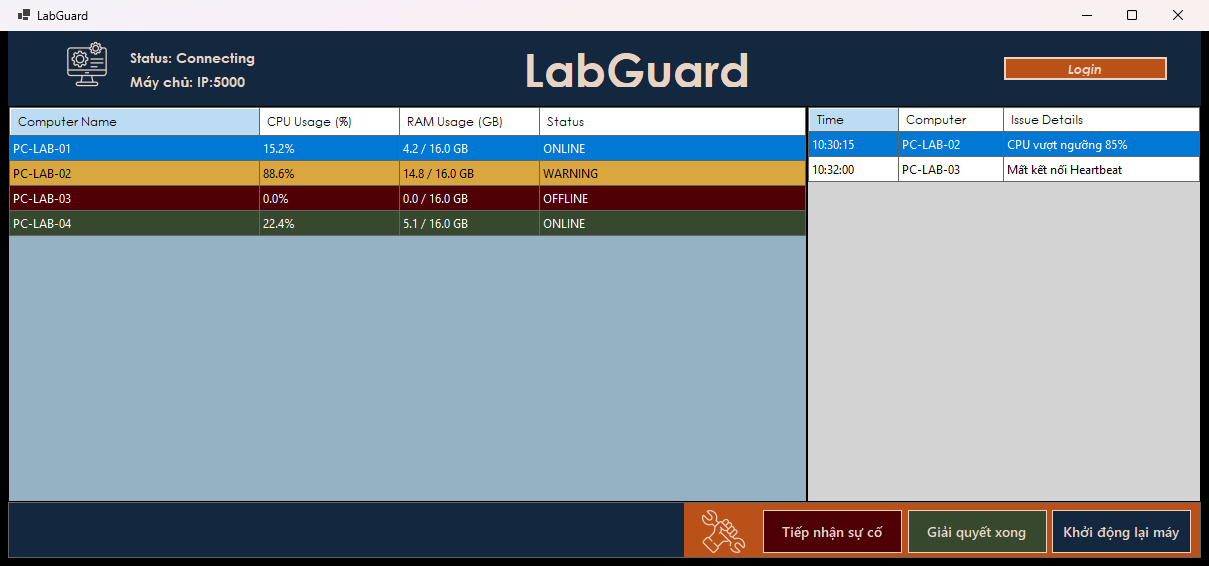
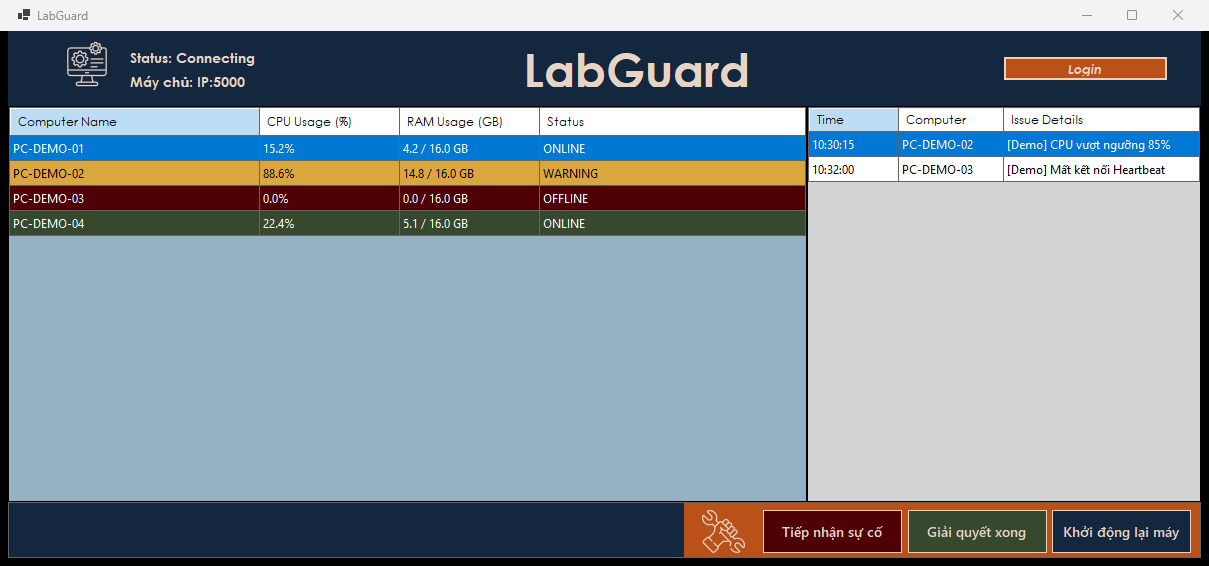
fix(admin): label sample rows as demo data and add ClearDemoData helper

diff --git a/src/LabGuard.Admin/DashboardForm.cs b/src/LabGuard.Admin/DashboardForm.cs
@@ -112,20 +112,29 @@ namespace LabGuard.Admin
 
         private void DashboardFromNew_Load(object sender, EventArgs e)
         {
-            // Dữ liệu mẫu kiểm thử hiển thị giao diện C-001
+            // Dữ liệu mẫu (Demo/Mock) minh họa hiển thị giao diện C-001 khi chưa kết nối Central
             if (dgvPhongMay.Rows.Count == 0)
             {
-                dgvPhongMay.Rows.Add("PC-LAB-01", "15.2%", "4.2 / 16.0 GB", "ONLINE");
-                dgvPhongMay.Rows.Add("PC-LAB-02", "88.6%", "14.8 / 16.0 GB", "WARNING");
-                dgvPhongMay.Rows.Add("PC-LAB-03", "0.0%", "0.0 / 16.0 GB", "OFFLINE");
-                dgvPhongMay.Rows.Add("PC-LAB-04", "22.4%", "5.1 / 16.0 GB", "ONLINE");
+                dgvPhongMay.Rows.Add("PC-DEMO-01", "15.2%", "4.2 / 16.0 GB", "ONLINE");
+                dgvPhongMay.Rows.Add("PC-DEMO-02", "88.6%", "14.8 / 16.0 GB", "WARNING");
+                dgvPhongMay.Rows.Add("PC-DEMO-03", "0.0%", "0.0 / 16.0 GB", "OFFLINE");
+                dgvPhongMay.Rows.Add("PC-DEMO-04", "22.4%", "5.1 / 16.0 GB", "ONLINE");
             }
 
             if (dgvSuCo.Rows.Count == 0)
             {
-                dgvSuCo.Rows.Add("10:30:15", "PC-LAB-02", "CPU vượt ngưỡng 85%");
-                dgvSuCo.Rows.Add("10:32:00", "PC-LAB-03", "Mất kết nối Heartbeat");
+                dgvSuCo.Rows.Add("10:30:15", "PC-DEMO-02", "[Demo] CPU vượt ngưỡng 85%");
+                dgvSuCo.Rows.Add("10:32:00", "PC-DEMO-03", "[Demo] Mất kết nối Heartbeat");
             }
+        }
+
+        /// <summary>
+        /// Xóa dữ liệu minh họa khi bắt đầu nhận dữ liệu thật từ máy chủ (dành cho C-002/C-003).
+        /// </summary>
+        public void ClearDemoData()
+        {
+            dgvPhongMay.Rows.Clear();
+            dgvSuCo.Rows.Clear();
         }
 
         private void panel2_Paint(object sender, PaintEventArgs e)
